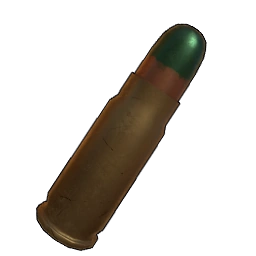
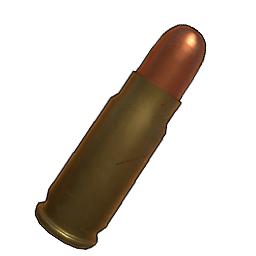
Replaced low resolution ammo images

diff --git a/Flask/routes.py b/Flask/routes.py
@@ -449,7 +449,7 @@ def helmet(id):
     cur.execute('SELECT damage, penetration, name, image FROM ammunition')
     ammunition = cur.fetchall()
 
-    # damage function
+    # calculate damage and add to a dictionary
     for ammo in ammunition:
         if ammunition[num][1] < results[4]:
             ballistics[ammunition[num][2]] = floor(2 * ammunition[num][0] * ammunition[num][1] / results[4]), ammunition[num][3], ceil(50 / floor(ammunition[num][0] * ammunition[num][1] / results[4])), 
@@ -492,7 +492,7 @@ def rig(id):
     cur.execute('SELECT damage, penetration, name, image FROM ammunition')
     ammunition = cur.fetchall()
 
-    # damage function
+    # calculate damage and add to a dictionary
     for ammo in ammunition:
         if ammunition[num][1] < results[4]:
             ballistics[ammunition[num][2]] = floor(ammunition[num][0] * ammunition[num][1] / results[4]), ammunition[num][3], ceil(100 / floor(ammunition[num][0] * ammunition[num][1] / results[4]))
@@ -534,12 +534,12 @@ def visor(id):
                 SELECT helmet_id FROM helmet_attachments where visor_id = ?)''', (id,))
     attachments = cur.fetchall()
 
-        # pull damage and piercing from ammunition
+    # pull damage and piercing from ammunition
     cur = conn.cursor()
     cur.execute('SELECT damage, penetration, name, image FROM ammunition')
     ammunition = cur.fetchall()
 
-    # damage function
+    # calculate damage and add to a dictionary
     for ammo in ammunition:
         if ammunition[num][1] < results[4]:
             ballistics[ammunition[num][2]] = floor(2 * ammunition[num][0] * ammunition[num][1] / results[4]), ammunition[num][3], ceil(50 / floor(ammunition[num][0] * ammunition[num][1] / results[4])), 
